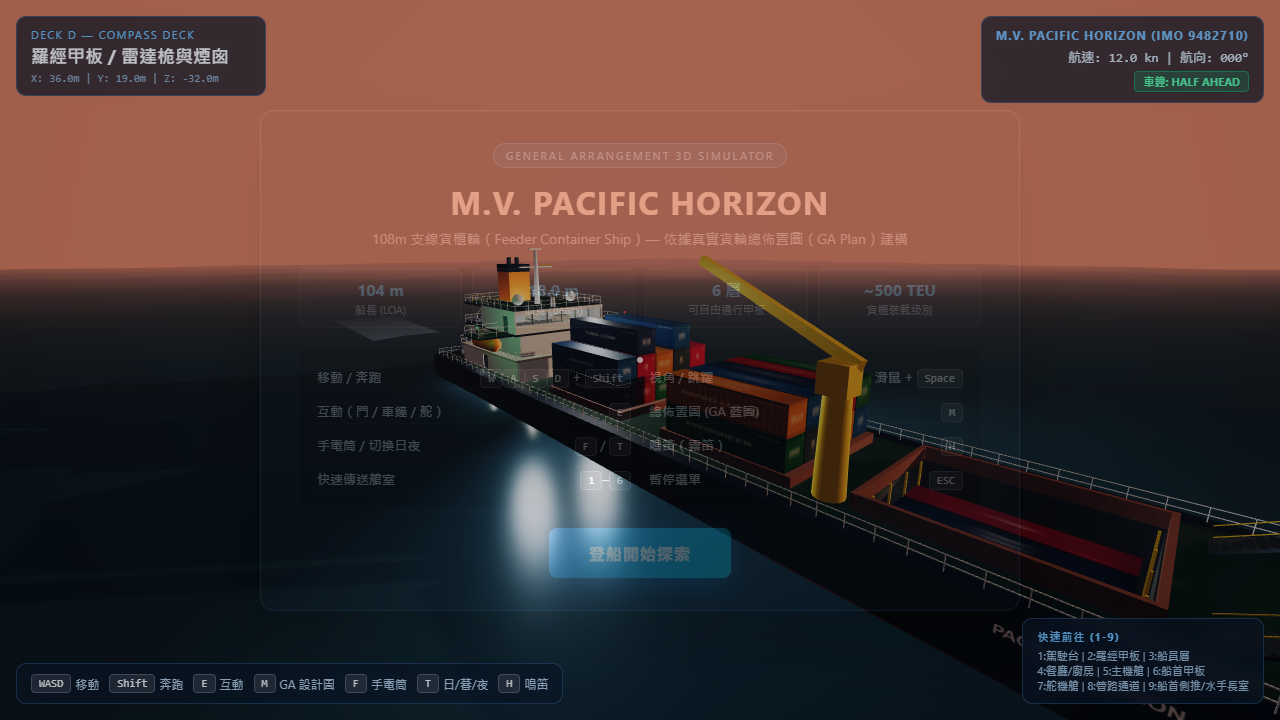
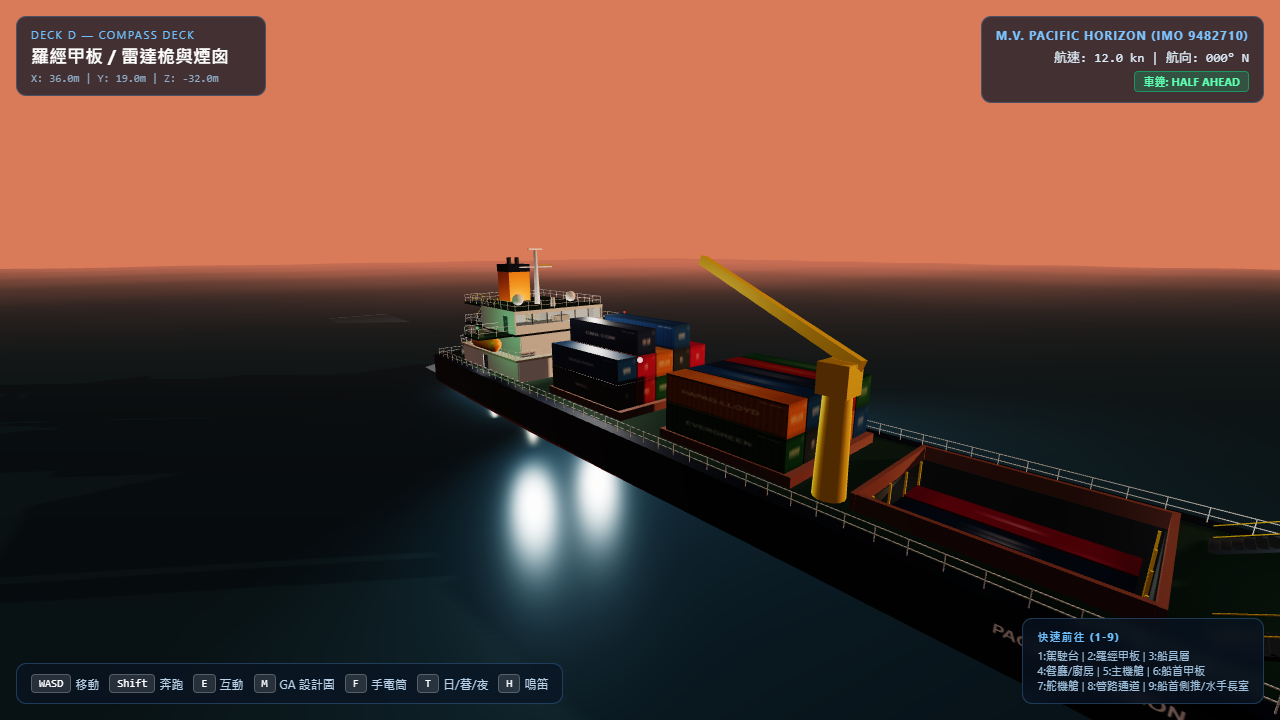
Polish clean screenshots without overlay fade

diff --git a/index.html b/index.html
@@ -1951,9 +1951,11 @@
     pointerLocked = (document.pointerLockElement === renderer.domElement);
     if (pointerLocked) {
       overlay.classList.add('hidden');
+      overlay.style.display = 'none';
       gaMapOpen = false;
       gaModal.classList.remove('visible');
     } else if (!gaMapOpen) {
+      overlay.style.display = '';
       overlay.classList.remove('hidden');
       btnStart.textContent = '繼續探索貨輪';
     }
@@ -1985,6 +1987,7 @@
       if (gaMapOpen) {
         if (pointerLocked) document.exitPointerLock();
         overlay.classList.add('hidden');
+      overlay.style.display = 'none';
         gaModal.classList.add('visible');
         drawGABlueprint();
       } else {
@@ -2435,6 +2438,7 @@
       player.yaw = cyaw || 0;
       player.pitch = cpitch || 0;
       overlay.classList.add('hidden');
+      overlay.style.display = 'none';
       const [deckName, roomName] = detectLocation(player.pos);
       locDeckEl.textContent = deckName;
       locRoomEl.textContent = roomName;
